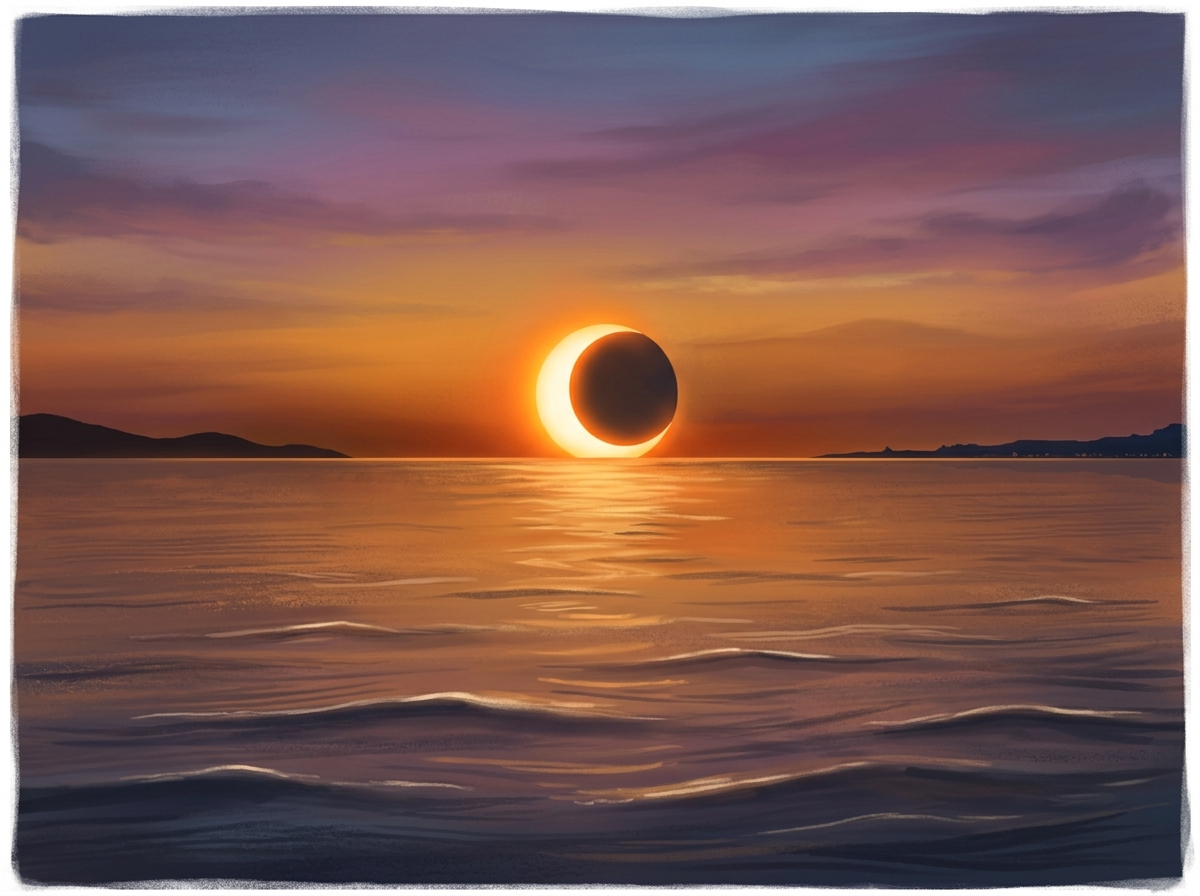
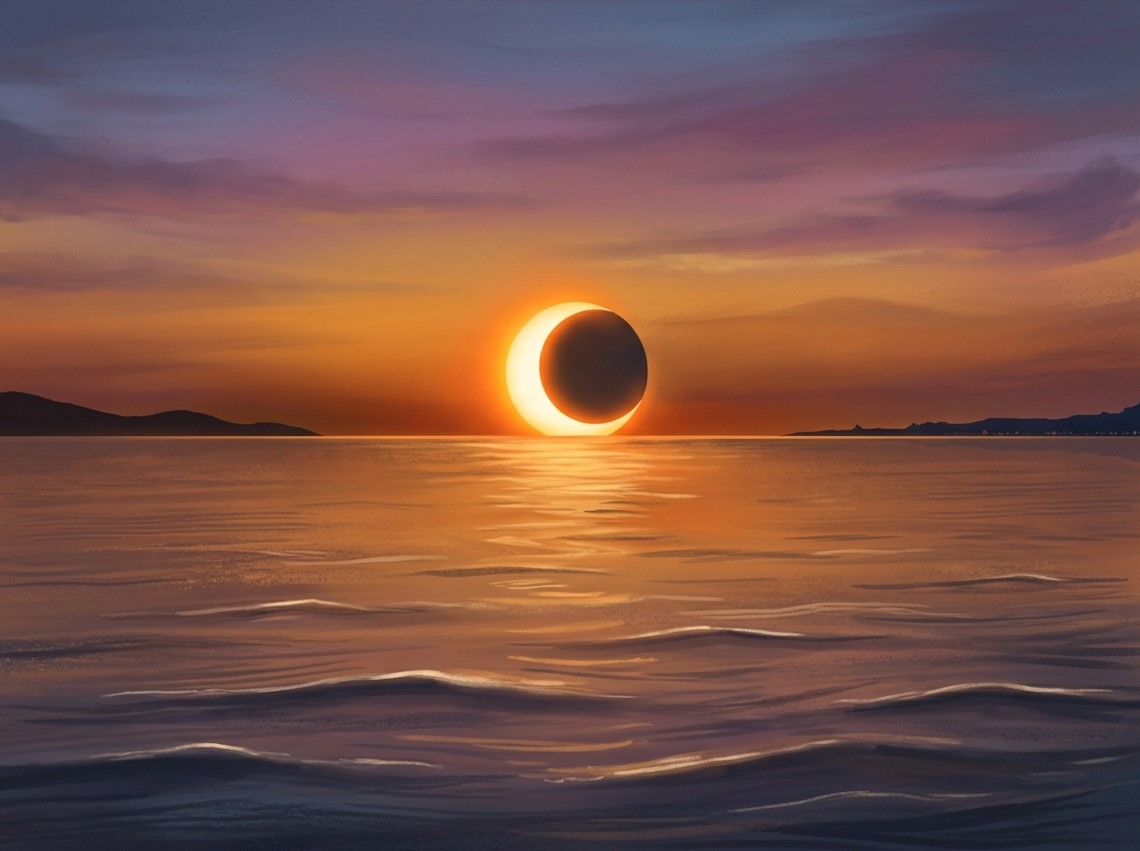
.

diff --git a/index.html b/index.html
@@ -61,11 +61,6 @@
     }
 
 
-    /*
-     * Only the very first panorama uses this fade.
-     * During normal panorama switching the old image stays visible.
-     */
-
     #viewer.initial-fade {
 
       opacity:
@@ -1014,10 +1009,6 @@
 <body>
 
 
-  <!-- ============================================================
-       FIRST LOAD SPINNER
-       ============================================================ -->
-
   <div id="first-load-spinner">
 
     <div class="spinner"></div>
@@ -1190,10 +1181,6 @@
     let introInteractionAttempts =
       0;
 
-
-    /*
-     * Only the very first page load uses the initial fade.
-     */
 
     let isFirstPageLoad =
       true;
@@ -1516,6 +1503,60 @@
 
 
     /* ============================================================
+       OPTIMIZED CAMERA APPLY
+       ============================================================ */
+
+    /*
+     * IMPORTANT:
+     *
+     * The animation values themselves are untouched.
+     *
+     * This function only prevents multiple independent viewer
+     * updates from being requested for the same animation frame.
+     *
+     * rotate + zoom still receive exactly the same values.
+     */
+
+    function applyAnimationCamera(
+      pitch,
+      yaw,
+      zoom
+    ) {
+
+      viewer.rotate({
+
+        pitch:
+          pitch,
+
+        yaw:
+          yaw
+
+      });
+
+
+      viewer.zoom(
+        zoom
+      );
+
+
+      /*
+       * Photo Sphere Viewer exposes needsUpdate() specifically
+       * for requesting a render after scene state changes.
+       */
+
+      if (
+        typeof viewer.needsUpdate ===
+        'function'
+      ) {
+
+        viewer.needsUpdate();
+
+      }
+
+    }
+
+
+    /* ============================================================
        FIRST LOAD VISUAL START
        ============================================================ */
 
@@ -1531,11 +1572,6 @@
       isFirstPageLoad =
         false;
 
-
-      /*
-       * The panorama has already been loaded.
-       * Start the fade and animation together.
-       */
 
       viewerElement.classList.remove(
         'initial-fade'
@@ -2380,11 +2416,6 @@
       hideInteractionGuides();
 
 
-      /*
-       * If the user interrupts the intro early,
-       * the location buttons must become available immediately.
-       */
-
       locationButtons.classList.add(
         'visible'
       );
@@ -3017,20 +3048,20 @@
         }
 
 
-        viewer.zoom(
+        /*
+         * Same pitch, yaw and zoom values.
+         * Single consolidated camera application.
+         */
+
+        applyAnimationCamera(
+
+          pitch,
+
+          currentYaw,
+
           zoom
+
         );
-
-
-        viewer.rotate({
-
-          pitch:
-            pitch,
-
-          yaw:
-            currentYaw
-
-        });
 
 
         if (
@@ -3925,20 +3956,19 @@
         }
 
 
-        viewer.zoom(
+        /*
+         * EXACT SAME calculated values as before.
+         */
+
+        applyAnimationCamera(
+
+          currentPitch,
+
+          currentYaw,
+
           currentZoom
+
         );
-
-
-        viewer.rotate({
-
-          pitch:
-            currentPitch,
-
-          yaw:
-            currentYaw
-
-        });
 
 
         animFrameId =
@@ -4213,11 +4243,6 @@
         );
 
 
-        /*
-         * The image is already loaded at this point.
-         * Reveal it and start the animation in the same frame cycle.
-         */
-
         revealFirstPanorama();
 
 
@@ -4339,17 +4364,6 @@
             disableUserInteraction();
 
 
-            /*
-             * IMPORTANT:
-             *
-             * We do NOT hide the current viewer here.
-             *
-             * Therefore the previous panorama remains visible
-             * while the next panorama is loading.
-             *
-             * There is no fade-out of the previous panorama.
-             */
-
             try {
 
               /* =================================================
@@ -4463,13 +4477,6 @@
 
                 setRendererBackground();
 
-
-                /*
-                 * For subsequent panorama changes:
-                 *
-                 * Old image is never faded out.
-                 * New image is already loaded before animation starts.
-                 */
 
                 requestAnimationFrame(
 
